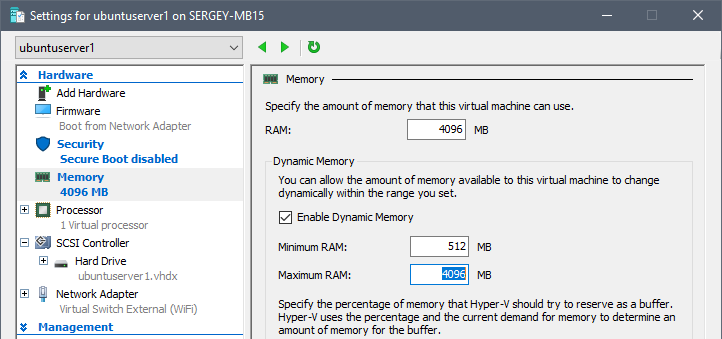
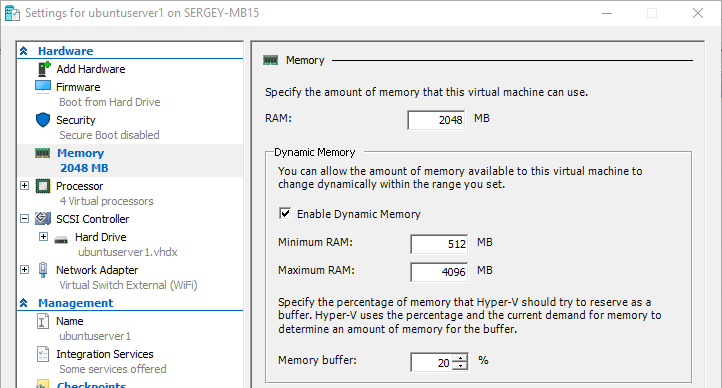
vm description changed

Changed region(s): [[0.0, 0.0, 1.0, 1.0], [0.3657, 0.354, 0.9751, 1.0]]

diff --git a/docs/vm-ubuntu-создание.md b/docs/vm-ubuntu-создание.md
@@ -1,0 +1,164 @@
+# 🐧 Виртуальная машина Ubuntu, создание и установка.
+
+Если у Вас есть опыт создания виртуальных машин или возможность попросить создать виртуалку у системного администратора, то этот раздел можно пропустить. Никаких особенностей для простых пользователей здесь не будет.
+
+Для виртуализации будет использоваться hyper-v, это бесплатно и уже встроено в windows.
+
+## Включение Hyper-V
+Подробная инструкция доступна на сайте Microsoft [(Включение Hyper-V в Windows 10 | Microsoft Learn)](https://learn.microsoft.com/ru-ru/virtualization/hyper-v-on-windows/quick-start/enable-hyper-v#enable-the-hyper-v-role-through-settings)
+
+Жмем правой кнопкой мыши на **Пуск**, выбираем верхний пункт, **Apps and Features**.
+
+В правой части, в разделе **Related settings**, нажимаем на ссылке **Programs and features**.
+
+В открывшемся окне, в левой части жмем на ссылку **Turn Windows features on or off**.
+
+Откроется окно с доступными компонентами. Ищем **Hyper-V** и ставим галочку. Перезагружаемся.
+
+Если галка уже стоит, то сразу запускаем Hyper-V Manager.
+
+Нажимаем пуск и вводим hyper-v и выбираем приложение Hyper-V Manager.
+![Alt text](images/VM-Hyper-V-Manager.png)
+
+Hyper-V Manager состоит из четырех окон
+
+1. Дерево консоли (список хостов).
+1. Список виртуальных машин.
+1. Детали выбранной виртуальной машины.
+1. Возможные действия.
+
+## Подготовка
+
+Если это первое создание виртуальной машины, то потребуется немного подготовиться.
+
+Начнем с создания виртуального сетевого коммутатора, чтобы наша виртуальная машина имела сетевой интерфейс и доступ интернету.
+
+В дереве консоли выбираем свою машину, а в окне действий **Virtual Switch Manager...**
+
+Откроется окно Virtual Switch Manager. Слева выбираем **New virtual network switch**, а справа выбираем **External** (значит будет доступ к внешней сети) и жмем кнопку **Create Virtual Switch**.
+
+Далее все просто:
+
+**Name**: произвольное имя, например Virtual Switch External (WiFi), т.е. чтобы нам самим было понятно, это виртуальный коммутатор, внешний, использует WiFi хоста.
+
+В разделе **Connection type** ставим переключатель в поле External network и выбираем сетевой адаптер, который подключен к сети.
+
+Жмем Ok. Готово.
+
+## Создание
+
+В дереве консоли выбираем свою машину, а в действиях **Quick Create...**
+
+![Alt text](images/VM-Hyper-V-Quick-Create-Select-Ubuntu.png)
+
+В открывшемся окне выбираем актуальную версию **Ubuntu - 22.04 LTS.**
+
+Внизу-справа нажимаем **More options** и заполняем открывшиеся поля.
+
+**Name** - Имя виртуальной машины, например ubuntuserver1.
+
+**Network** - Выбираем созданный ранее виртуальный коммутатор.
+
+Нажимаем **Create Virtual Machine** и ждем. Скачается установочный образ и запустится процесс установки.
+
+Когда почти все будет готово, на экран появится приглашение подключиться к созданной виртуальной машине, или редактировать настройки.
+![Alt text](images/VM-Hyper-V-Quick-Create-Successfully.png)
+
+Начнем с настроек. Жмем **Edit settings**
+
+Раздел **Memory**.
+
+В поле **Maximum RAM** ставим максимальный объем памяти, который мы готовы выделить виртуальной машине. По умолчанию в этом поле стоит очень больше число, если не ограничить, то виртулка съест всю память и все сломается.
+![Alt text](images/VM-Hyper-V-Settings-Memory.png)
+
+Раздел **Processor**.
+
+Давайте дадим половину от всех мощностей. Ориентируйтесь на поле **Percent of total system resources**.
+![Alt text](images/VM-Hyper-V-Settings-Processor.png)
+
+Мастер быстрого создания виртуальной машины создает жесткий диск небольшого размера, всего 12 гигабайт. Сейчас можно было бы его расширить, но настроек самого жесткого диска будет недостаточно. Поэтому увеличение жесткого диска и последующие настройки в Ubuntu будут рассмотрены в отдельном разделе. Поэтому подтверждаем изменения - **OK**.
+
+Теперь можно подключаться, нажимаем большую синюю кнопку **Connect**, а в открывшемся окне виртуальной машины **Start**.
+
+Виртуальная машина запущена и начат процесс установки операционной системы.
+
+## Установка
+
+Процесс установки начинается с экрана выбора языка. Выбираем **English**.
+![Alt text](images/ubuntu-install-language-select.png)
+
+Раскладка клавиатуры, тут уже по ситуации. Скорее всего **Russian**.
+![Alt text](images/ubuntu-install-keyboard-layout.png)
+
+Часовой пояс - Выбираете свой.
+![Alt text](images/ubuntu-install-timezone.png)
+
+Создаем пользователя, придумываем имя нашего сервера и пароль.
+
+Остальные галки оставляем без изменения.
+![Alt text](images/ubuntu-install-credentials.png)
+
+В процессе установки появится окно с предложением выбрать разрешение экрана для подключения к виртуальной машине. Указываем комфортное для себя разрешение и жмем **Connect**.
+
+![Alt text](images/ubuntu-install-display-configuration.png)
+
+Откроется окно подключения, вводим имя пользователя и пароль.
+
+![Alt text](images/ubuntu-install-xrdp-login.png)
+
+Онлайн аккаунт, пропускаем.
+
+![Alt text](images/ubuntu-install-online-account.png)
+
+Livepatch - Жмем Next.
+
+![Alt text](images/ubuntu-install-livepatch.png)
+
+Help improve Ubuntu - Сами решаете, отправлять ли данные об использовании в Canonical.
+
+![Alt text](images/ubuntu-install-help-improve.png)
+
+Privacy - Тоже решаете сами, разрешить ли определять географическую локацию.
+
+![Alt text](images/ubuntu-install-location-services.png)
+
+Наконец, готово. Пока не будем выбирать приложения для установки. Жмем **Done**.
+
+![Alt text](images/ubuntu-install-ready-to-go.png)
+
+**Настройки сети**.
+
+Сразу поменяем IP на статичный, для последующего удобного подключения. В верхнем правом углу нажимаем на панель с иконками и выбираем **Settings**.
+
+![Alt text](images/ubuntu-settings.png)
+
+Раздел **Network**. В поле с активным соединением жмем на кнопку настроек (шестеренка).
+
+![Alt text](images/ubuntu-settings-network.png)
+
+Переходим в закладку *IPv4*.
+
+Устанавливаем переключатель в **Manual**.
+
+**Adress** - IP адрес, любой доступный.
+
+**Netmask** - Сетевая маска, скорее всего 255.255.255.0.
+
+**Gateway** - IP адрес роутера.
+
+**DNS** - IP адрес роутера, или dns сервеа, или 8.8.8.8 (google).
+
+![Alt text](images/ubuntu-settings-network-ipv4.png)
+ 
+
+Переходим в закладку **IPv6**.
+
+Устанавливаем переключатель в **Disabled**.
+
+![Alt text](images/ubuntu-settings-network-ipv6.png)
+
+Жмем **Apply**.
+
+Возможно потребуется выключить и вновь включить сетевое соединение, чтобы сетевые настройки были применены.
+
+Готово.

diff --git a/docs/_Sidebar.md b/docs/_Sidebar.md
@@ -1,15 +1,14 @@
 [DevOps, быстрый старт](Home)
 
-* [Виртуальная машина, создание](VM-Создание)
-* [🐧 Ubuntu установка и настройка](Ubuntu-установка-и-настройка)
-    * [Настройка сетевого интерфейса](Ubuntu-Настройка-сетевого-интерфейса)
-    * [Отключение ipv6](Ubuntu-Отключение-ipv6)
-    * [Пользователь root](Ubuntu-Пользователь-root)
-    * [Создание сетевой папки](Ubuntu-Создание-сетевой-папки)
-    * [XRDP](Ubuntu-xrdp)
-    * [Монтирование сетевой папки](Ubuntu-Монтирование-сетевой-папки)
-    * [Сертификаты](Ubuntu-Сертификаты)
-    * [Увелиение swap](Ubuntu-Увелиение-swap)
+* [🐧 Виртуальная машина Ubuntu, создание и установка.](vm-ubuntu-создание)
+    * [Включение SSH](ubuntu-ssh)
+    * [Пользователь root](ubuntu-пользователь-root)
+    * [Создание сетевой папки](ubuntu-создание-сетевой-папки)
+    * [Монтирование сетевой папки](ubuntu-монтирование-сетевой-папки)
+    * [Сертификаты](ubuntu-сертификаты)
+    * [Увелиение swap](ubuntu-увелиение-swap)
+    * [Настройка сетевого интерфейса в консоли*](ubuntu-настройка-сетевого-интерфейса)
+    * [Отключение ipv6 в консоли*](ubuntu-отключение-ipv6-в-консоли)
 * [⚙ OneScript, установка и настройка](OneScript-установка-и-настройка)
     * [Прокси](OneScript-Прокси)
 * [🐋 Docker, установка и настройка](Docker-установка-и-настройка)
